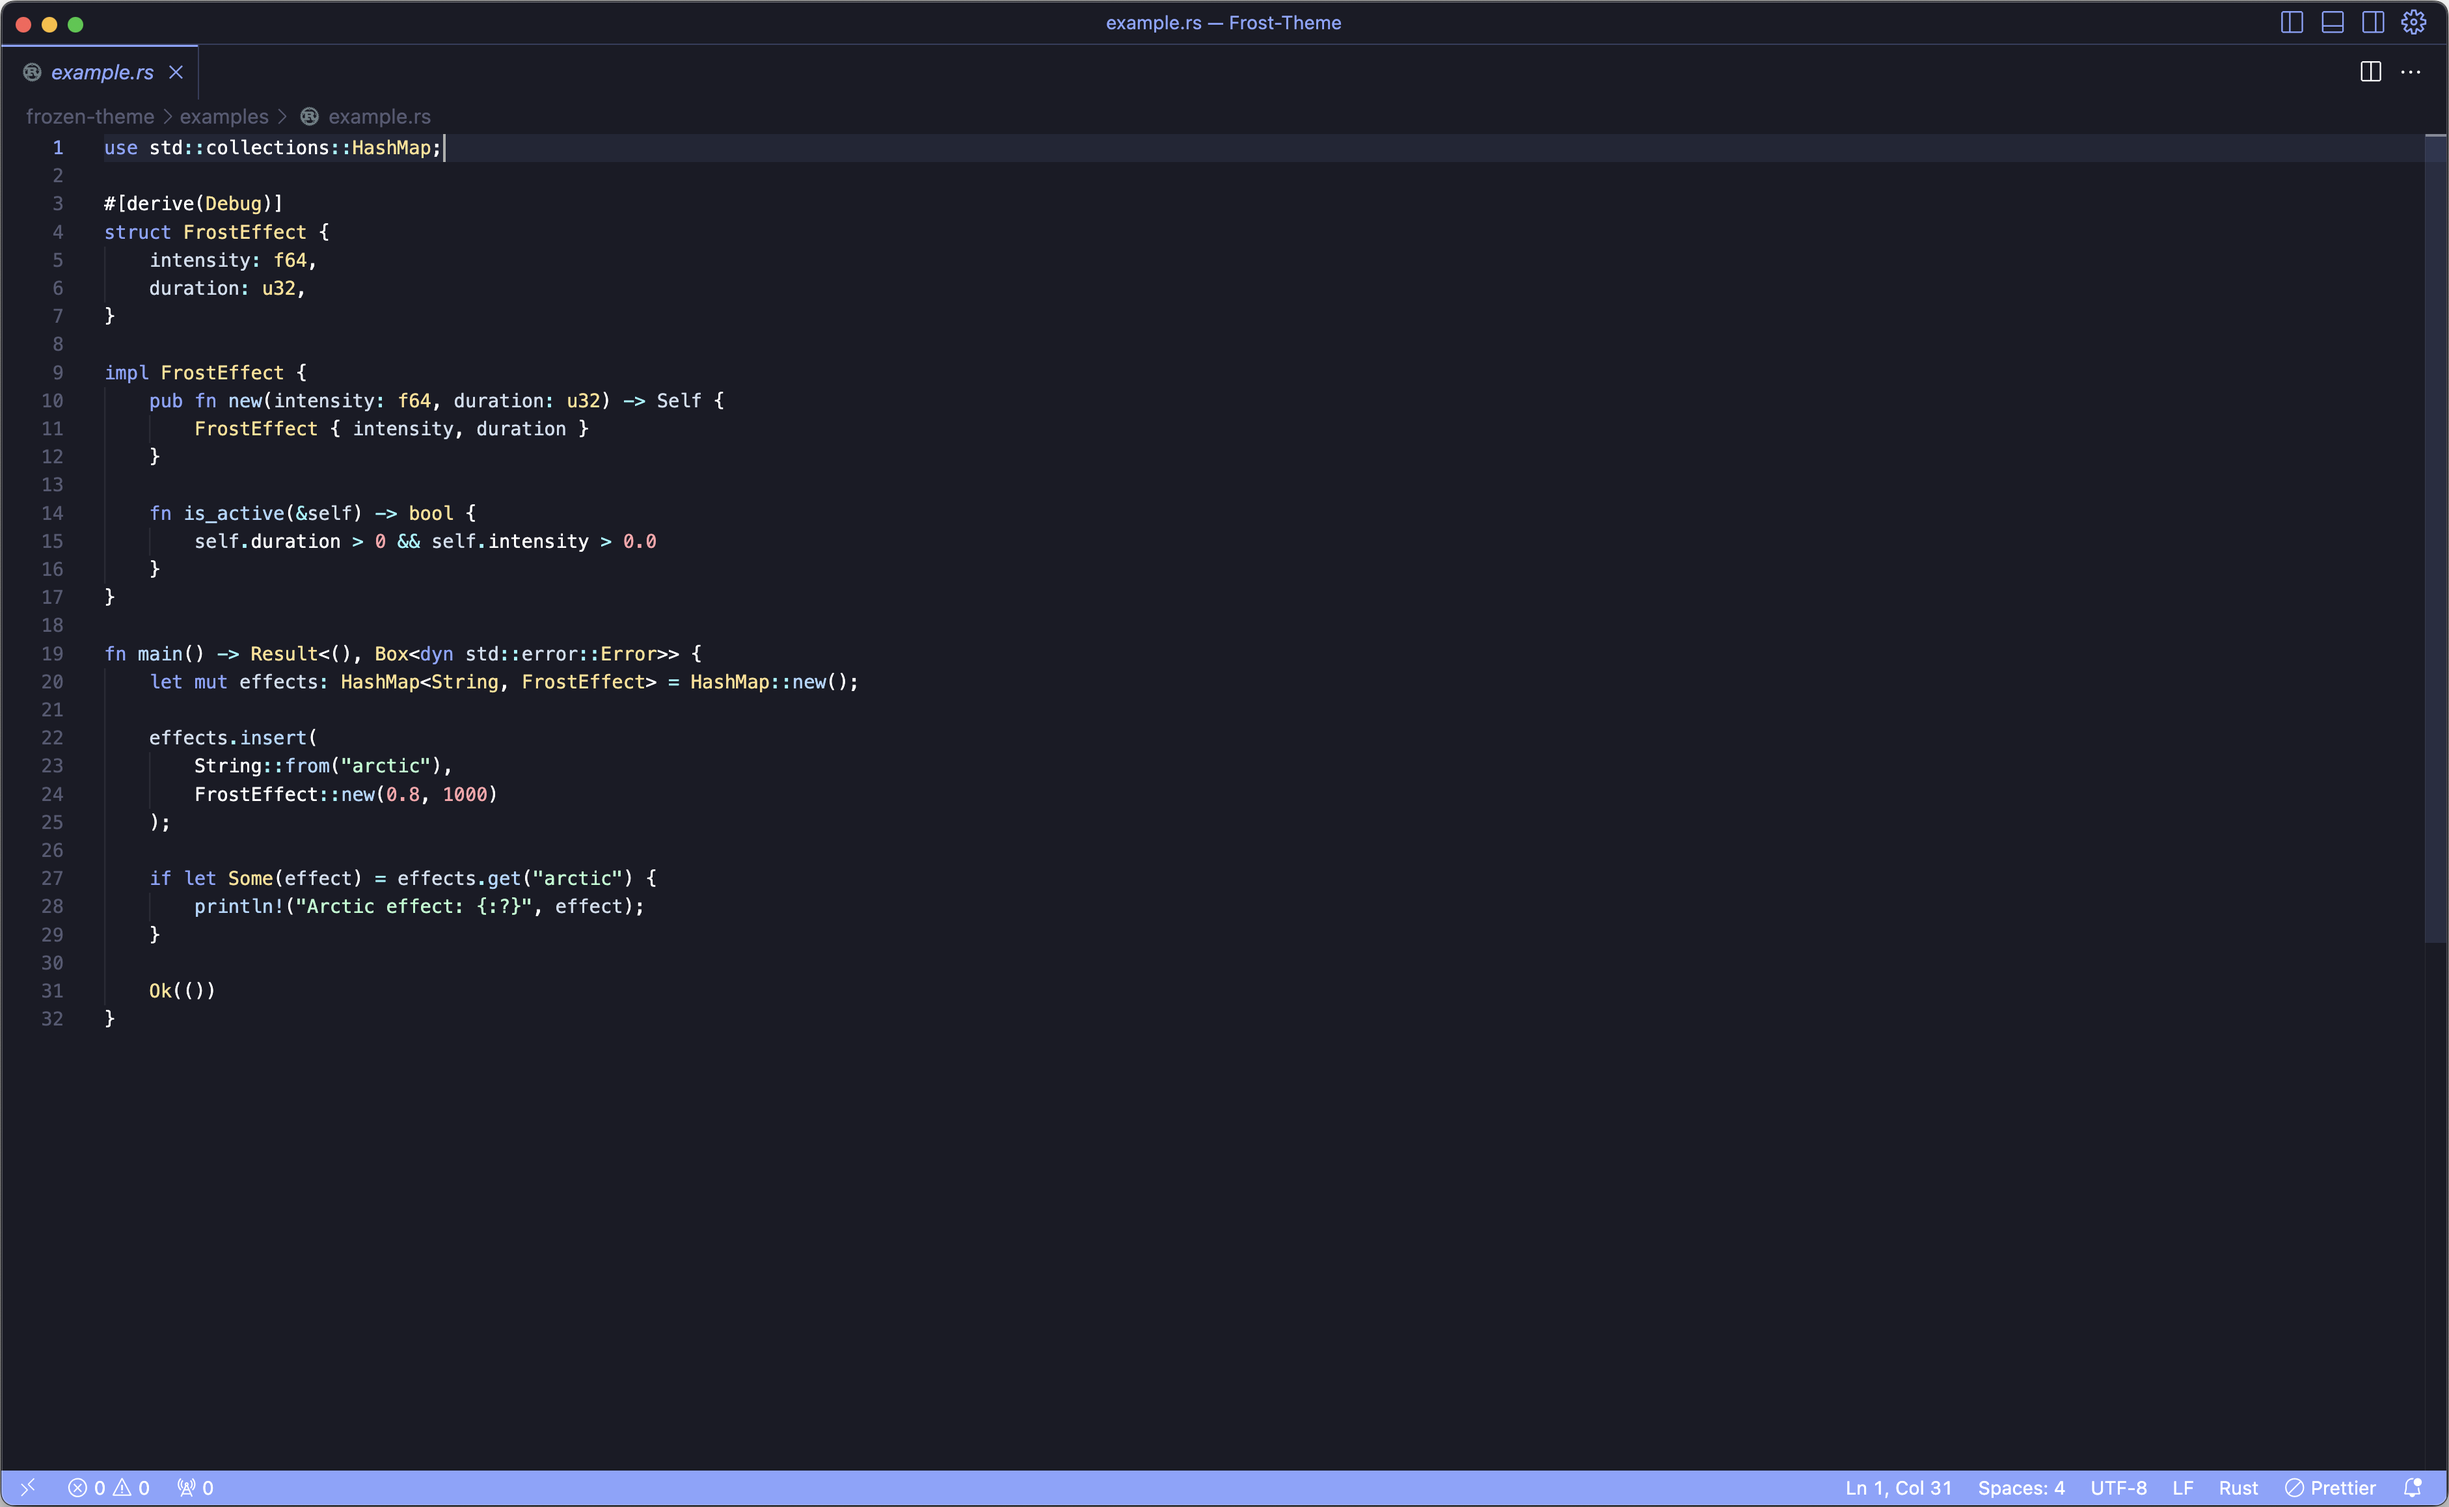
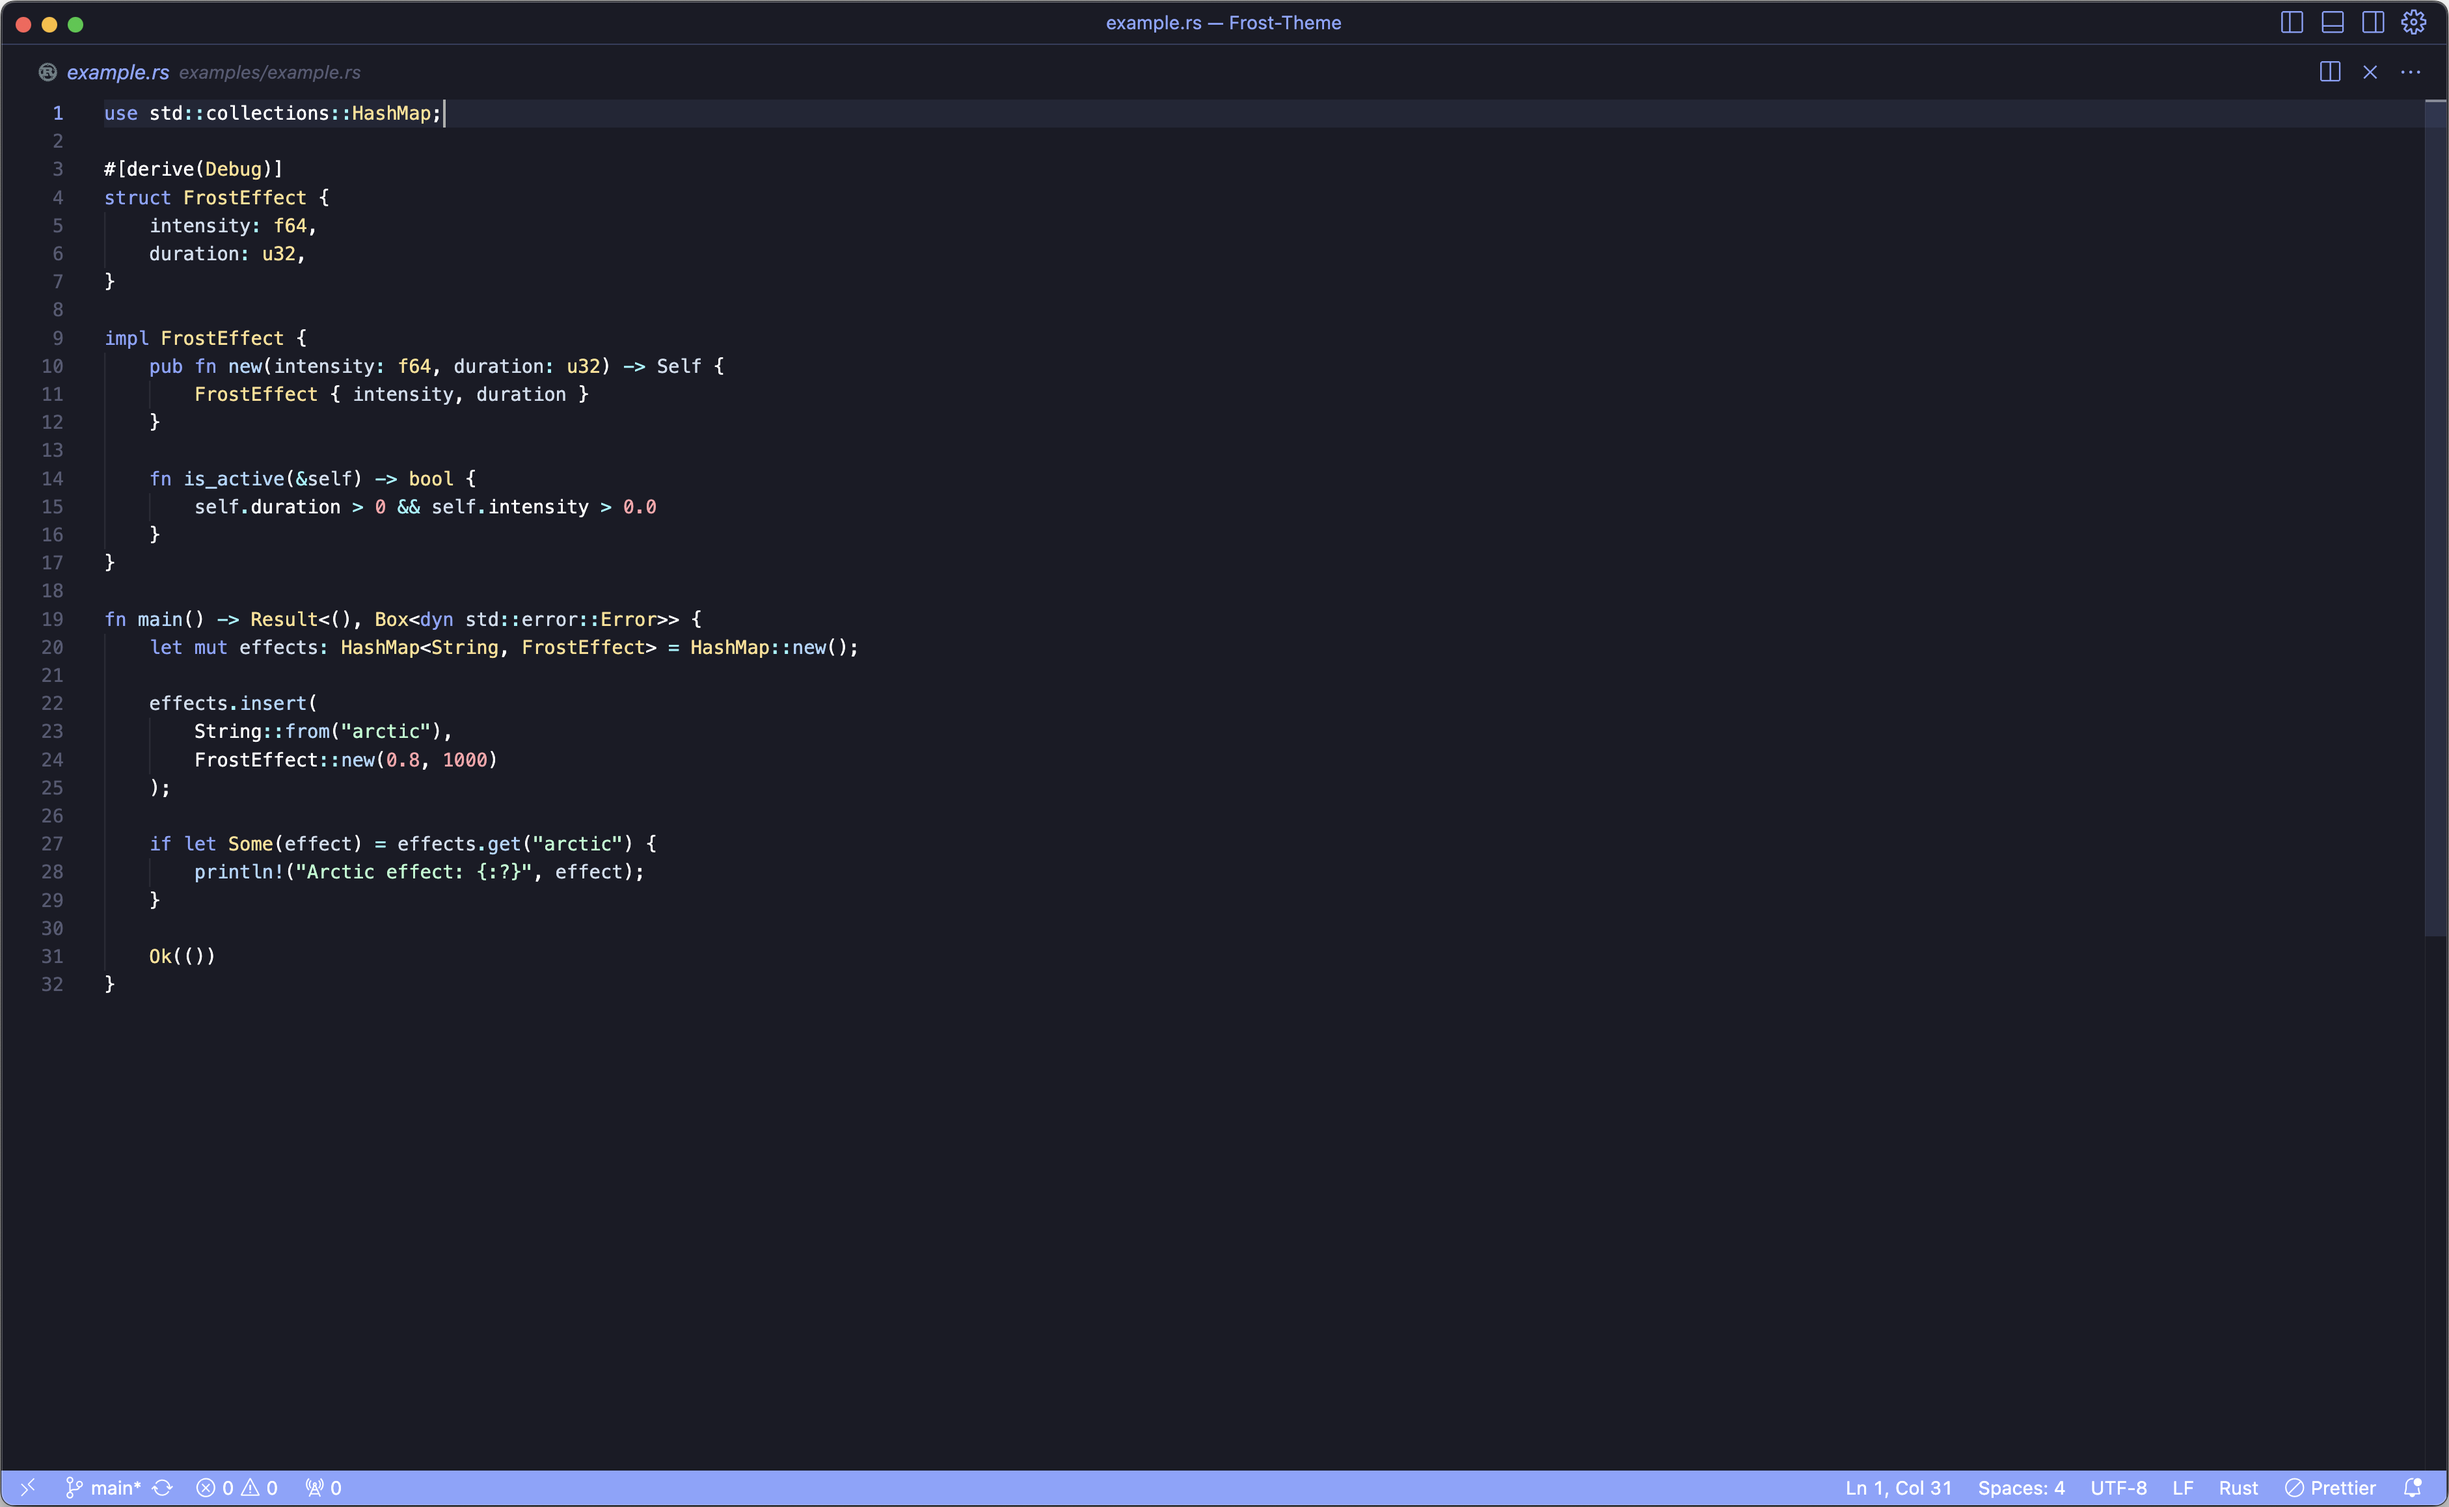
Update version to 0.0.6, add new changelog entry, and update asset previews

diff --git a/CHANGELOG.md b/CHANGELOG.md
@@ -27,3 +27,7 @@ Check [Keep a Changelog](http://keepachangelog.com/) for recommendations on how 
 ## [0.0.5] - 2024-12-31
 
 -   Added icon
+
+## [0.0.6] - 2024-12-31
+
+-   Updated previews
